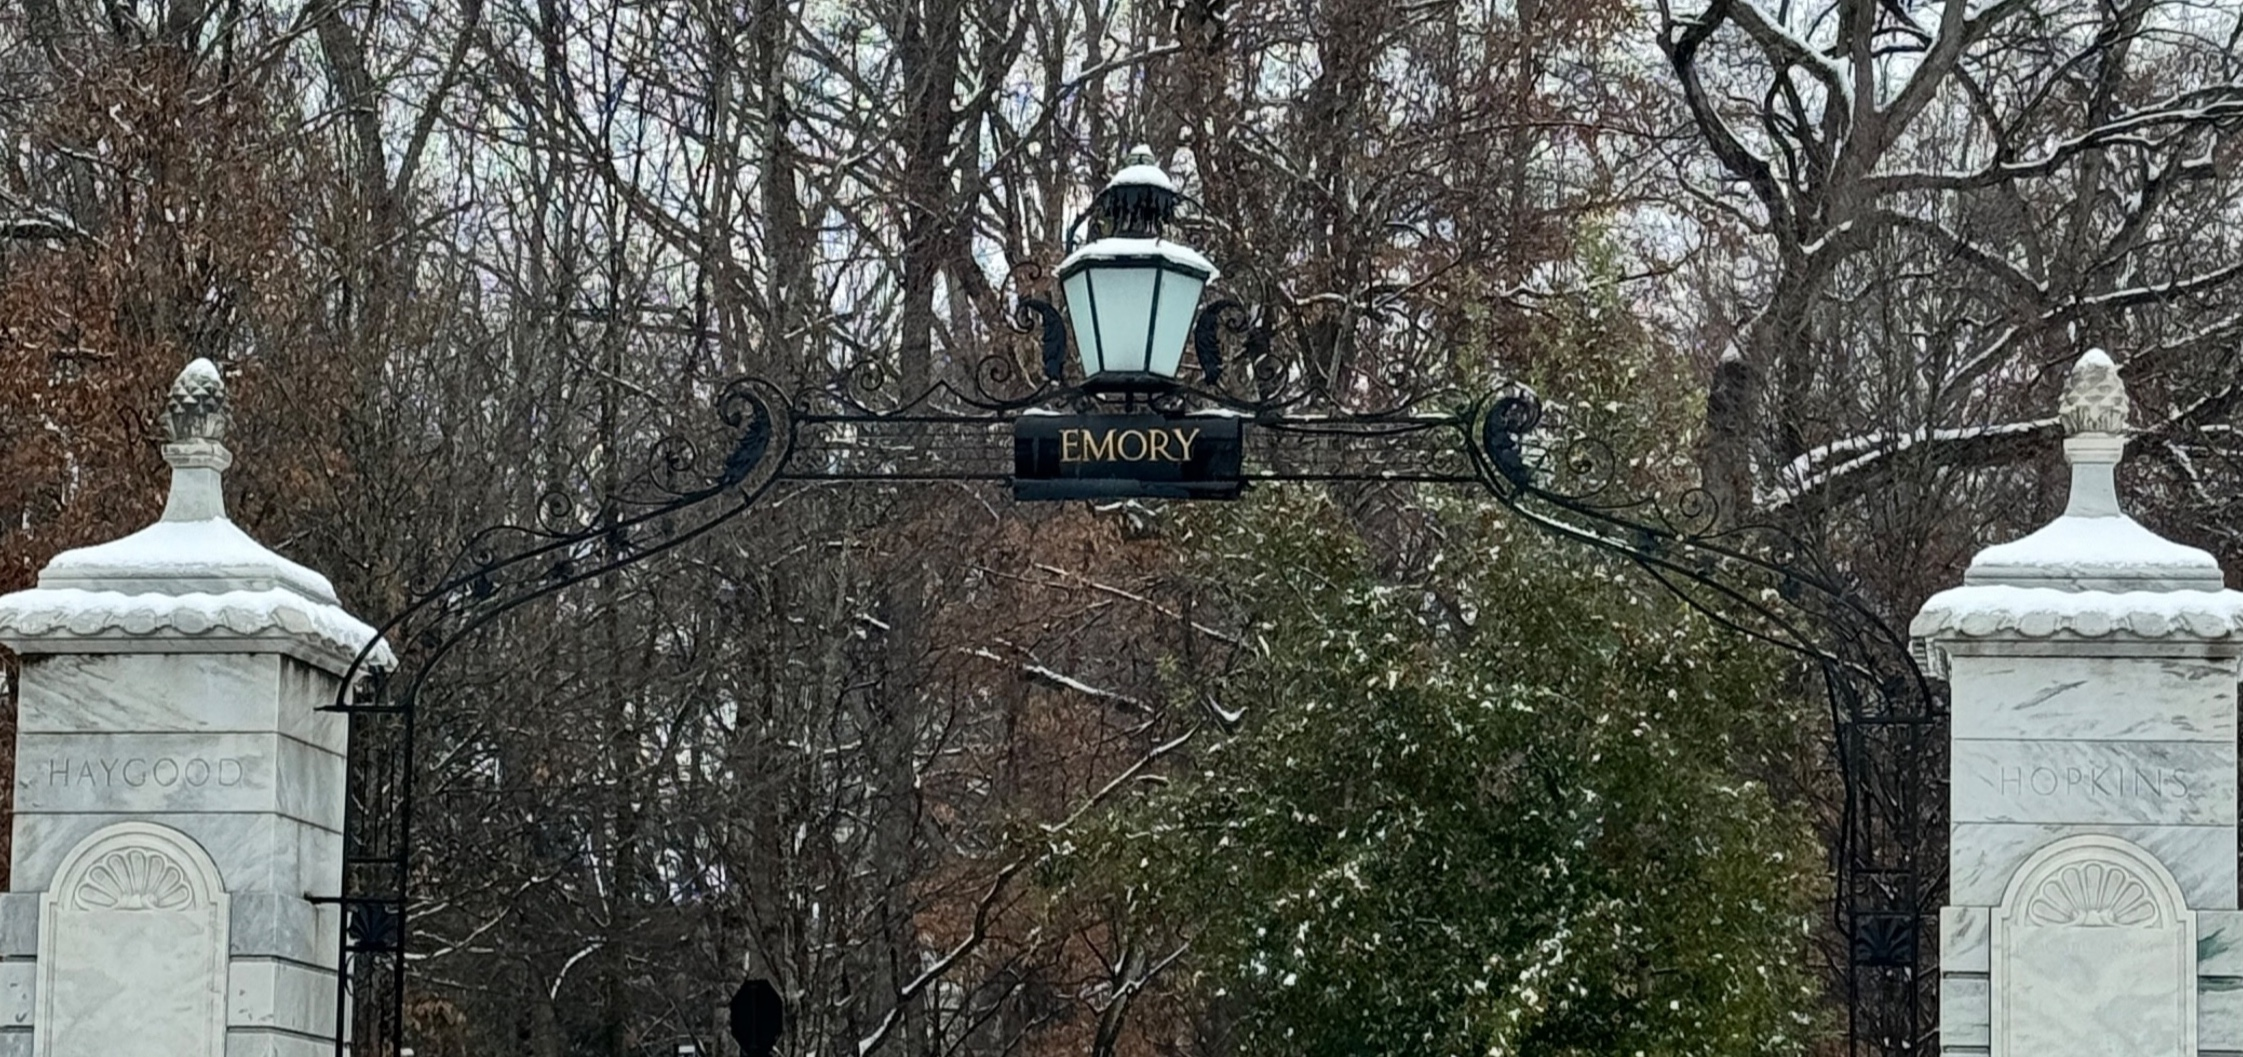
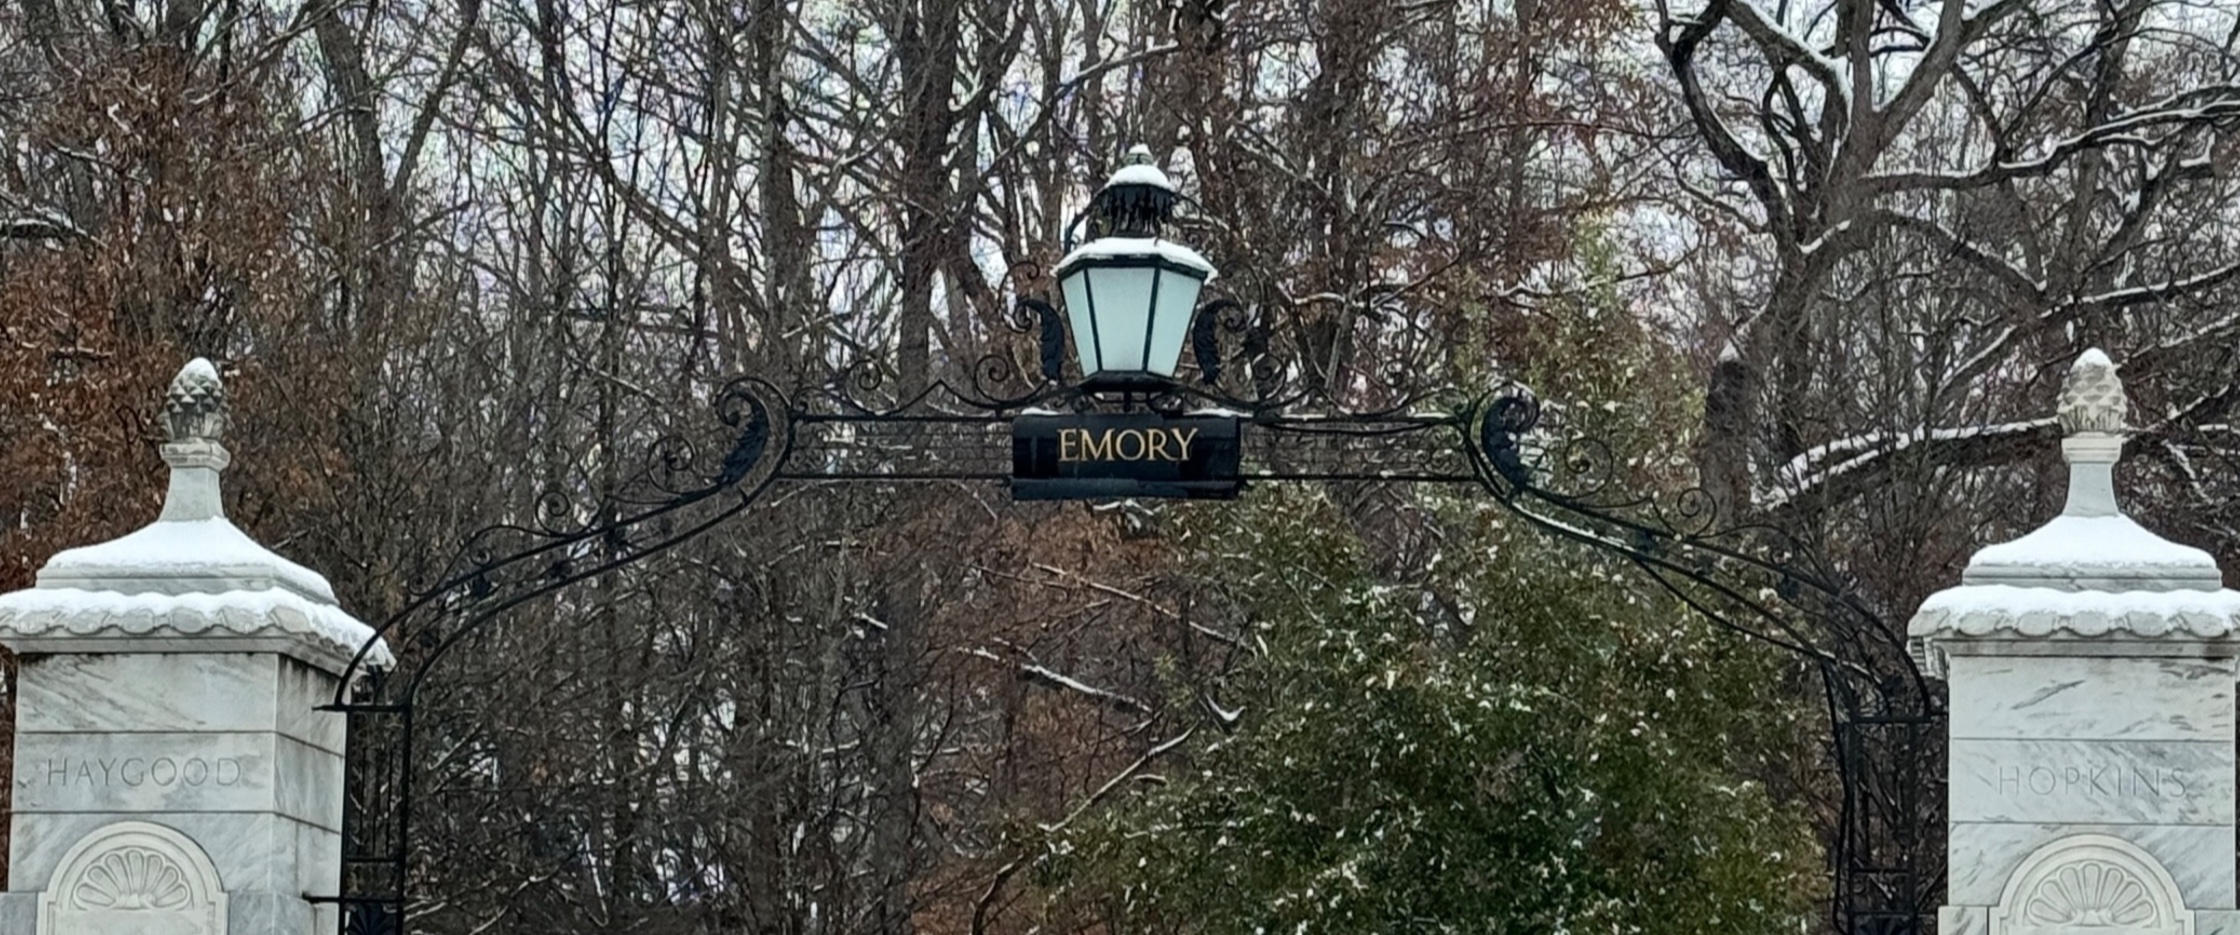
Add mobile responsive layout

diff --git a/css/style.css b/css/style.css
@@ -587,3 +587,134 @@ footer a {
 footer a:hover {
   color: #ffffff;
 }
+
+/* L. HAMBURGER BUTTON (hidden on desktop)
+============================================================================= */
+.nav-toggle {
+  display: none;
+  background: none;
+  border: none;
+  color: #ffffff;
+  font-size: 1.4rem;
+  cursor: pointer;
+  padding: 0.3rem 0.5rem;
+  line-height: 1;
+}
+
+/* M. RESPONSIVE — TABLET & MOBILE
+============================================================================= */
+@media (max-width: 768px) {
+
+  /* Navigation */
+  nav {
+    flex-wrap: wrap;
+    height: auto;
+    padding: 0.9rem 5%;
+  }
+
+  .nav-toggle {
+    display: block;
+  }
+
+  .nav-links {
+    display: none;
+    flex-direction: column;
+    width: 100%;
+    gap: 0;
+    margin-top: 0.6rem;
+    padding-bottom: 0.4rem;
+  }
+
+  .nav-links.open {
+    display: flex;
+  }
+
+  .nav-links li {
+    border-top: 1px solid rgba(255,255,255,0.08);
+  }
+
+  .nav-links a {
+    display: block;
+    padding: 0.65rem 0;
+    font-size: 0.85rem;
+  }
+
+  /* Hero */
+  .hero-text h1 {
+    font-size: 2rem;
+  }
+
+  .hero-text .hero-sub {
+    font-size: 0.85rem;
+    letter-spacing: 0.03em;
+  }
+
+  /* Profile */
+  .profile-inner {
+    flex-direction: column;
+    align-items: flex-start;
+    gap: 1.2rem;
+  }
+
+  .profile-section .container {
+    padding-left: 5%;
+  }
+
+  /* About */
+  .about-inner {
+    flex-direction: column;
+  }
+
+  .about-photo {
+    width: 100%;
+    max-width: 260px;
+    height: 200px;
+    align-self: center;
+  }
+
+  /* Photo grid — 2 columns on tablet */
+  .photo-grid {
+    grid-template-columns: repeat(2, 1fr);
+  }
+
+  /* Blog card */
+  .blog-card-inner {
+    flex-direction: column;
+  }
+
+  .blog-thumb {
+    width: 100% !important;
+    aspect-ratio: 16 / 9 !important;
+  }
+
+  /* Teaching — remove indent on mobile */
+  .teaching-item {
+    margin-left: 0;
+  }
+
+  .teaching-role-label {
+    margin-left: 0;
+  }
+
+  /* Section spacing */
+  .section {
+    padding: 3rem 0;
+  }
+}
+
+@media (max-width: 480px) {
+
+  /* Hero */
+  .hero-text h1 {
+    font-size: 1.6rem;
+  }
+
+  .hero-text .hero-sub {
+    font-size: 0.75rem;
+  }
+
+  /* Photo grid — 1 column on small phones */
+  .photo-grid {
+    grid-template-columns: 1fr;
+  }
+}

diff --git a/js/main.js b/js/main.js
@@ -1,0 +1,10 @@
+const navToggle = document.querySelector('.nav-toggle');
+const navLinks  = document.querySelector('.nav-links');
+
+navToggle.addEventListener('click', () => {
+  navLinks.classList.toggle('open');
+});
+
+navLinks.querySelectorAll('a').forEach(link => {
+  link.addEventListener('click', () => navLinks.classList.remove('open'));
+});

diff --git a/blog.html b/blog.html
@@ -13,6 +13,7 @@
   <!-- NAV -->
   <nav>
     <a href="index.html" class="nav-logo">Mohammad Fidakar</a>
+    <button class="nav-toggle"><i class="fas fa-bars"></i></button>
     <ul class="nav-links">
       <li><a href="index.html">Home</a></li>
       <li><a href="research.html">Research</a></li>
@@ -81,5 +82,6 @@
     <p>&copy; 2026 Mohammad Fidakar &nbsp;·&nbsp; Emory University</p>
   </footer>
 
+  <script src="js/main.js"></script>
 </body>
 </html>

diff --git a/cv.html b/cv.html
@@ -13,6 +13,7 @@
   <!-- NAV -->
   <nav>
     <a href="index.html" class="nav-logo">Mohammad Fidakar</a>
+    <button class="nav-toggle"><i class="fas fa-bars"></i></button>
     <ul class="nav-links">
       <li><a href="index.html">Home</a></li>
       <li><a href="research.html">Research</a></li>
@@ -47,5 +48,6 @@
     <p>&copy; 2026 Mohammad Fidakar &nbsp;·&nbsp; Emory University</p>
   </footer>
 
+  <script src="js/main.js"></script>
 </body>
 </html>

diff --git a/index.html b/index.html
@@ -13,6 +13,7 @@
   <!-- NAV -->
   <nav>
     <a href="index.html" class="nav-logo">Mohammad Fidakar</a>
+    <button class="nav-toggle"><i class="fas fa-bars"></i></button>
     <ul class="nav-links">
       <li><a href="index.html" class="active">Home</a></li>
       <li><a href="research.html">Research</a></li>
@@ -75,5 +76,6 @@
     <p>&copy; 2026 Mohammad Fidakar &nbsp;·&nbsp; Emory University</p>
   </footer>
 
+  <script src="js/main.js"></script>
 </body>
 </html>

diff --git a/photography.html b/photography.html
@@ -13,6 +13,7 @@
   <!-- NAV -->
   <nav>
     <a href="index.html" class="nav-logo">Mohammad Fidakar</a>
+    <button class="nav-toggle"><i class="fas fa-bars"></i></button>
     <ul class="nav-links">
       <li><a href="index.html">Home</a></li>
       <li><a href="research.html">Research</a></li>
@@ -135,5 +136,6 @@
     });
   </script>
 
+  <script src="js/main.js"></script>
 </body>
 </html>

diff --git a/research.html b/research.html
@@ -13,6 +13,7 @@
   <!-- NAV -->
   <nav>
     <a href="index.html" class="nav-logo">Mohammad Fidakar</a>
+    <button class="nav-toggle"><i class="fas fa-bars"></i></button>
     <ul class="nav-links">
       <li><a href="index.html">Home</a></li>
       <li><a href="research.html" class="active">Research</a></li>
@@ -96,5 +97,6 @@
     <p>&copy; 2026 Mohammad Fidakar &nbsp;·&nbsp; Emory University</p>
   </footer>
 
+  <script src="js/main.js"></script>
 </body>
 </html>

diff --git a/teaching.html b/teaching.html
@@ -13,6 +13,7 @@
   <!-- NAV -->
   <nav>
     <a href="index.html" class="nav-logo">Mohammad Fidakar</a>
+    <button class="nav-toggle"><i class="fas fa-bars"></i></button>
     <ul class="nav-links">
       <li><a href="index.html">Home</a></li>
       <li><a href="research.html">Research</a></li>
@@ -119,5 +120,6 @@
     <p>&copy; 2026 Mohammad Fidakar &nbsp;·&nbsp; Emory University</p>
   </footer>
 
+  <script src="js/main.js"></script>
 </body>
 </html>